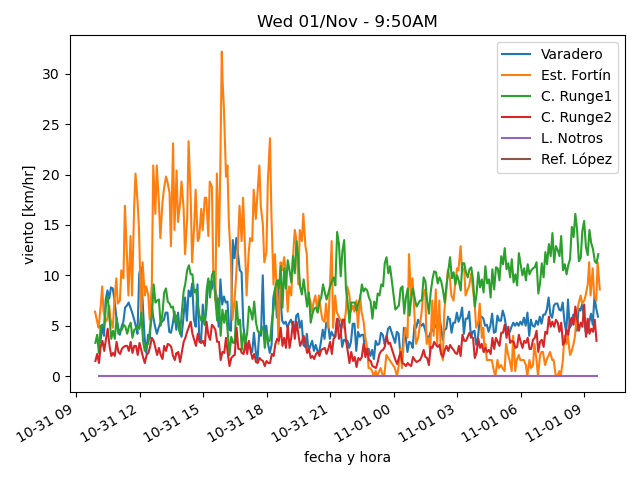
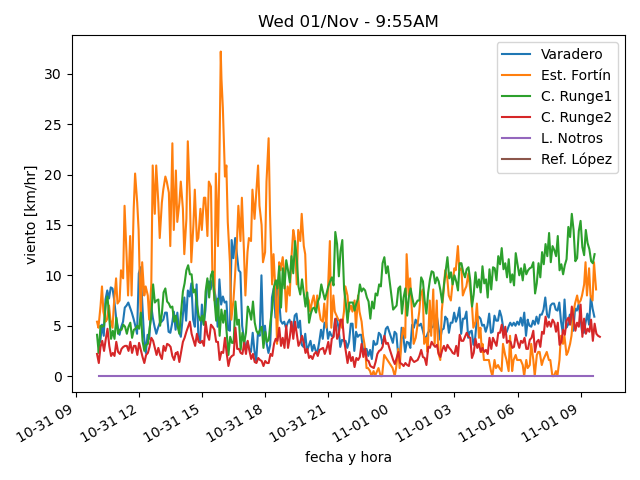
actualiza datos

diff --git a/estaciones/estacion4.html b/estaciones/estacion4.html
@@ -18,32 +18,32 @@
     </tr>
     <tr>
      <td class="stats_data">
-      9:34AM
+      9:54AM
      </td>
     </tr>
     <tr>
      <td class="stats_data">
-      3.0⁰C
+      3.2⁰C
      </td>
     </tr>
     <tr>
      <td class="stats_data">
-      1.0⁰C
+      1.3⁰C
      </td>
     </tr>
     <tr>
      <td class="stats_data">
-      86.7%
+      88.2%
      </td>
     </tr>
     <tr>
      <td class="stats_data">
-      1021.33hPa
+      1021.44hPa
      </td>
     </tr>
     <tr>
      <td class="stats_data">
-      2.5/3.5 km/hr SE
+      2.7/3.9 km/hr SE
      </td>
     </tr>
     <tr>
@@ -58,7 +58,7 @@
     </tr>
     <tr>
      <td class="stats_data">
-      131.7 W/m²
+      174.8 W/m²
      </td>
     </tr>
    </tbody>
